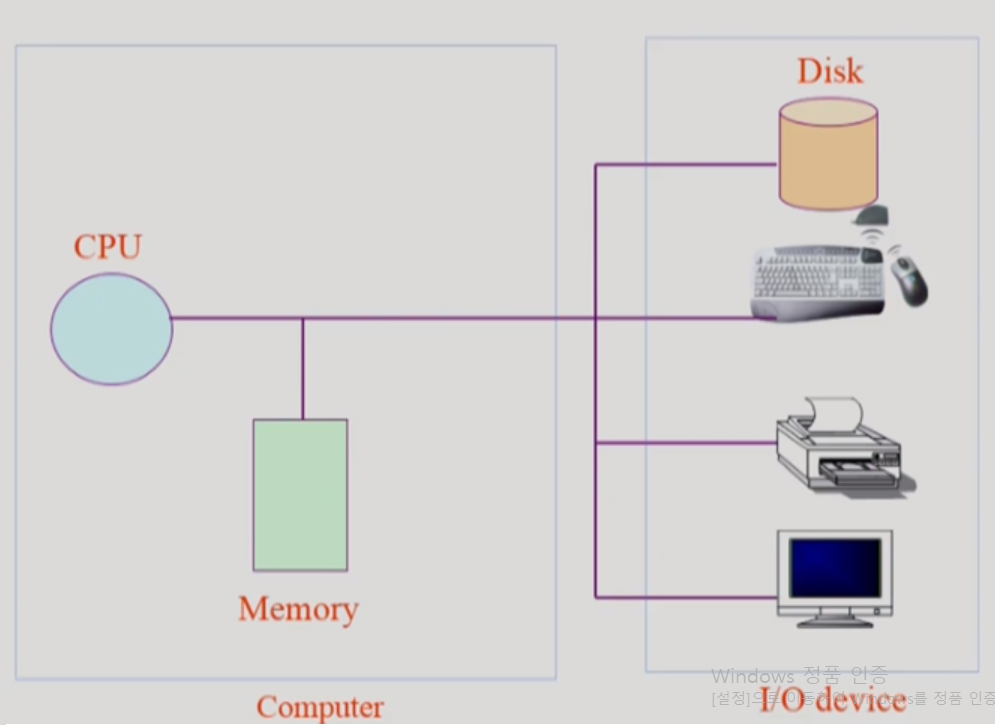
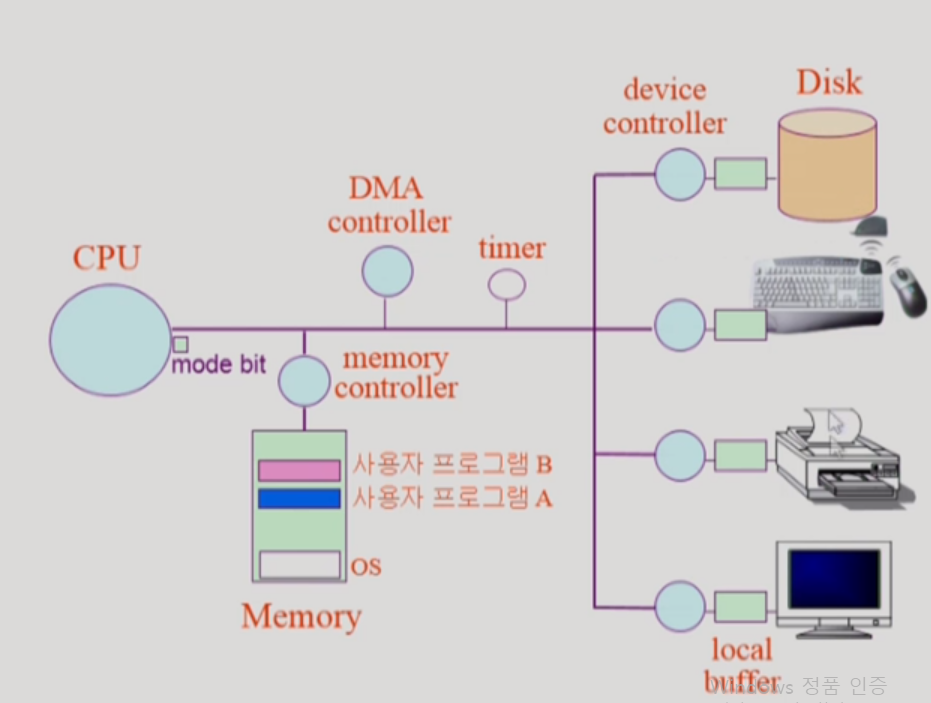
add post

Changed region(s): [[0.0311, 0.0597, 0.9968, 1.0], [0.2492, 0.9559, 0.4049, 1.0], [0.9968, 0.9559, 1.0, 0.9858]]

diff --git a/_posts/os/18-10-31-os-2.md b/_posts/os/18-10-31-os-2.md
@@ -28,3 +28,186 @@ comments: true
 <figcaption>컴퓨터 시스템 구조</figcaption>
 </figure>
 </center>
+
+i/o 장치는 각각 디바이스를 전담하는 디바이스 컨트롤러가 붙어있음
+i/o 장치를 통제하는것은 디바이스 컨트롤러가 함
+작은 cpu 역활
+i/o 컨트롤러도 메모리 같은 공간이 필요함 로컬 버퍼라고 부름
+cpu는 memory에서 인터렉터가 걸린 인스트럭션을 가져다가 처리해주는 역할만 함
+interrupt line 은 
+
+cpu와 i/o 장치는 서로 처리속도에서 엄청난 차이가 남
+
+cpu에는 cpu보다 더 빠른register가 있음
+cpu에는 mode bit이 있음
+운영체제 프로그램인지 사용자 프로그램인지 구분해줌
+
+interrupt line이란 것이 cpu에 있는대 cpu는 항상 메모리에 있는 인스트럭션만 실행함
+메모리에 있는 인스트럭션을 순차적으로 실행
+키보드 입력이라던지 뭐가 끝낫다던지 하는것은 interrupt line을 통해 알게함
+프로그램이 실행되다가 scnaf를 통해 입력을 받을수도 잇고 파일을 읽어와야 하는 상황이 올수도 잇음
+프로그램을 작성할 때에 메모리만 가지고 작성하는것이 아니라 디스크 에 읽기 쓰고 하는 경우가 있음
+
+cpu는 io 디바이스에 직접 접근 못함 메모리에 있는 인스트럭션만 접글할 수 있음
+i/o 디바이스에서 정보가 필요하면 디바이스 컨트롤러에게 일을 시킴
+디스크는 일을 하면서 버퍼에 저장시켜놈
+이때 cpu는 놀지않고 메모리에 있는 다음 인스트럭션을 실행시킴 
+cpu는 빠른 일군이라 계속 일만함 계속 넘어가면서 
+아주 짧은 시간 간격으로 인트럭션을 처리하기 떄문에 
+매우 빠르게 일을 처리해 주기 때문에 실시간으로 처리되는거처럼 보임
+cpu에게 무한 루프를 도는 프로그램을 도는 프로그램을 주게되면 안되서
+타이머라는 하드웨어를 두고있음.
+타이머는 특정 프로그램이 cpu를 독점하는 것을 막기위해 잇음
+처음에는 운영체제가 cpu를 가지고 있다가 사용자 프로그램이 실행되면 타이머에 값을 세팅 한후 cpu를 넘겨줌
+프로그램은 cpu를 계속 쓸수잇는게 아니라 수십ms시간 정도에 시간을 주면서 cpu를 넘겨줌 
+그러다가 세팅된 시간이 되면 타이머가 cpu에게 인터럽트를 검 세팅해논 시간이 끝낫다고
+cpu는 인스트럭션을 실행하고 끝나고나면 인터럽트 라인을 체크함 없으면 다음 인스트럭션 실행하고
+인터럽트 라인이 있으면 하던일을 먼추고 cpu제어권이 프로그램으로 부터 os에게 cpu제어권이 자동으로 넘어감
+운영체제가 프로그램으로 cpu를 자유롭게 줄순 잇지만 뻇지는 못함
+cpu를 줫기떄문에..
+운영체제가 아무리 똑똑해도 뺏을 방법이 없어 
+그래서 timer를 둬서 타이머 인터럽트를 줘서 사용자 프로그램으로 부터 cpu를 뻇어옴
+운영체제가 cpu를 얻게되면 타이머를 다시 세팅하고 다음 프로그램에게 cpu를 넘겨줌
+이걸 반복을 함 
+n개의 프로그램이 있다면 다 반복하고 처음으로 돌아오고 이런식으로 처리함
+사용자 프로그램은 본인이 직접 io를 접근할수 없음 이건 os를 통해서만 처리해야함 
+프로그램이 io를 접근해야한다면 스스로 운영체제에게 cpu를 넘겨주면 운영체제가 해당하는 작업을
+io 컨트롤러에게 시킴
+그리고 오래걸리니깐 요청한 프로그램한테 넘기는게 아니라 다음 프로그램에게 넘김
+그럼 요청한 프로그램은 io 컨트롤러가 요청한 작업이 끝나서 cpu에 인터럽트를 걸어두면 그때 io 처리된 것과 함께 처리가 다됫으니 요청한 프로그램에게 cpu가 넘어감  
+
+## Mode bit
+- 사용자 프록그램의 잘못된 수행으로 다른 프로그램 및 운영체제에 피해가 가지 않도록 하기 위한 보호 장치 필요
+- **Mode bit**을 통해 하드웨어적으로 두 가지 모드의 **operation** 지원
+- 1 사용자모드: 사용자 프로그램 수행
+    - i/o 제어 불가능
+    - 한정된 인스트럭션만 실행 가능함
+- 0 모니터 모드*: OS 코드 수행
+    - 모든 명령을 수행 가능
+    - 보안을 해칠 수 있는 중요한 명령어는 모니터 모드에서만 수행 가능한 '**특권명령**'으로 규정
+    - Interrupt나 Exception 발생시 하드웨어가 mode bit을 0으로 바꿈
+    - 사용자 프로그램에게 CPU를 넘기기 전에 mode bit을 1로 셋팅
+
+***모니터모드(= 커널 모드, 시스템 모드)**
+<center>
+<figure>
+<img src="/assets/post-img/os/modebit.png" alt="views">
+<figcaption></figcaption>
+</figure>
+</center>
+
+## Timer
+- 타이머
+    - 정해진 시간이 흐른 뒤 운영체제에게 제어권이 넘어가도록 인터럽트를 발생시킴
+    - 타이머는 매 클럭 틱 때마다 1씩 감소
+    - 타이머 값이 0이 되면 타이머 인터럽트 발생
+    - CPU를 특정 프로그램이 독점하는 것으로부터 보호
+- 타이머는 time sharing을 구현하기 위해 널리 이용됨
+- 타이머는 현재 시간을 계산하기 위해서도 사용
+
+## Device Controller
+- I/O device controller
+    - 해당 I/O 장치유형을 관리하는 일종의 작은 CPU
+    - 제어 정보를 위해  control register, status register를 가짐
+    - local buffer를 가짐(일종의 dataregister)
+    - I/O는 실제로 device와 local buffer 사이에서 일어남
+        - local buffer에 데이터를 넣고 device conroller에게 처리하라고 시킴
+    - Device controller는 I/O가 끝났을 경우 interrupt로 CPU에 그 사실을 알림
+
+**device driver(장치구동기)**
+
+: OS 코드 중 각 장치별 처리루틴 -> **software**
+
+**device controller(장치제어기)**
+
+: 각 장치를 통제하는 일종의 작은 CPU -> **hardware**
+
+디바이스를 접근하기 위한 디바이스 드라이버
+
+이렇게 하나씩 인터럽트를 걸려다 보니깐 cpu가 인터럽트를 너무 많이 당함
+그래서 DMA(Direct Memory Access)를 사용함
+DMA컨트롤러를 두개되면 메로리를 직접 접근 가능함
+둘이서 특정  메모리 영역을 접근하게되면 메모리 컨트롤러는 그런걸 중재하는 역활을 함
+DMA는 왜달앗냐면 I/O장치가 너무 자주 인터럽트를 걸어 방해가 많이됌 그걸 막기 위해
+DMA는 중간 중간 I/O장치의 요청이 CPU의 인터럽트를 거는게 아니라 DMA가 I/O가 처리한 내용을 메모리에 직접 처리를 하고 CPU에 인터럽트를 걸어서 한번에 처리될수 있게 해줌
+
+cpu의 숙명은 본인이 이번에 실행해야될 인스트럭션 주소를 프로그램 카운터라는 레지스터가 가지고잇음
+매번 그 인스트럭션만 실행하는게 cpu의 운명이야! 
+인스트럭션 중에서 io장치를 접근해야 하는 상황이 오면 디바이스 드라이버를 통해서 명령을 하게됌
+디스크에서 실제로 헤드를 움직여서 하는건 아님
+디스크 컨트롤러가 하는거임
+cpu는 메모리의 지시를 받아서 하는거고
+디스크는 디스크 안의 펌웨어가 디바이스 컨트롤러 를 제어하는 언어는 따로잇음
+cpu는 직접 뭔가 할수가 없고 메뉴얼 대로 일을 함
+메뉴얼엔 메모리 몇번지에 일을 해야되는지 적혀있음 얘는 그냥 일하는거임
+일하고나면 다음 메뉴얼에 다음페이지에 있는 인스트럭션을 실행함 반복하는거임 병신이네 ㅋ
+이친구의 통제를 운영체제가 함 
+하다가프로그램에게 넘겨주고 받아오고 그럼 
+
+## 입출력(I/O)의 수행
+- 모든 입출력 명령은 특권 명령
+- 사용자 프로그램은 어떻게 I/O를 하는가?
+    - 시스템 콜(system call)
+        - 사용자 프로그램은 운영체제에게 I/O 요청
+    - trap을 사용하여 인터럽트 벡터의 특정 위치로 이동
+    - 제어권이 인터럽트 벡터가 가리키는 입터럽트 서비스 루틴으로 이동
+    - 올바른 I/O요청인지 확인후 I/O수행
+    - I/O완료 시 제어권을 시스템콜 다음 명령으로 옮김
+
+운영체제에게 시스템 함수를 수행하도록 요청하는것은 시스템 콜이라 부름
+프로그램을 실행하다 보면 함수를 실행하는 부분이 있음 
+처음에 프로그램이 cpu에서 메인함수를 실행할떄는 메인 함수에 해당하는 인스트럭션을 실행할거임
+다른 함수를 호출하면 점프를 할거임
+if문에 만족 안하거나 그러면 메모리 위치를 점프 하게됌
+반복문이라면 내려가다 올라가고 하는 방식으로 실행이됌
+프로그램이 실행되다가 io요청을 하기 위해서 운영체제의 함수를 운영하는게 시스템콜이라고 설명을 했는데
+그냥 메모리 주소를 바꿔서 되는게 아님
+어떤식으로 운영체제 함수를 호출 하냐면
+아까 디바이스 컨트로러들이 cpu에게 인터럽트를 걸수  잇다고 햇는대 그런식으로 호출을함
+내가 내 프로그램을 호출하다가 io를 해야된다면 직접 주소 점프를 못함
+나는 사용자 프로그램임 모드빗이 1로되잇음
+io를 하기위해서는 운영체제로 해당하는 걸로 넘어가야됌
+프로그램이 직접 인터럽트 라인을 실행하는 인터럽트를 실행함
+인스트럭션 하나가 실행되고 나면 인터럽트 들어온게 잇는지 체크함
+타이머가나 io가 인터럽트를 거는게 아니고 프로그램이 인터럽트를 요청하기 위해서 직접 걸수잇음
+cpu는 다음인스트럭션을 실행하는게 아니고 인터럽트가 들어왓기 떄문에 모드빗이 0으로 바뀌고 cpu제어권이 os로 넘어감
+디스크로 뭘 읽어오기 위해서 요청을 햇다면 os가 디스크 컨트롤러에게 뭘 가져오라고 요청을함
+인터럽트는 하드웨어일꾼들이 정보 교신을 하기위해서 걸어줄수도 잇고 사요자 프로그램이 돌아가다가
+내가 처리 못하고 운영체제에게 요청해야되는 상황에서도 인터럽트 라인을 세팅해서 os에게 cpu가 넘어갈수 있음
+후자를 소프트웨어 인터럽트 라고 부름 다른말로 trap이라고 부름
+소프트웨어적으로 인터럽트를 거는거임.
+일반적으로는 io나 타이머가 거는 인터럽트를 뜻함
+넓은 의미는 둘다 포함함
+
+os는 항상 올바른 요청인지 그 파일에 대한 접근권한이 잇는건지 올바른 요청인 경우에 요청을 부탁함
+그러면 io 컨트롤러는 일을함 그러면 cpu는 다른거한테 넘어가고
+끝나면 하드웨어 인터럽트가 걸림
+그래서 io를 하기 위해서 인터럽트가 두가지가 걸림
+처음에는 프로그램이 io를하기위해 os에 시스템 콜을함 그럼 os가 device에게 시킴
+시킨일이 끝나면 io 컨트롤러가 cpu에게 하드웨어 인터럽트를 검 
+
+## 인터럽트(Interrupt)
+- 인터럽트
+    - 인터럽트 당한 시점의 레지스터와 program counter를 save한 후 CPU의 제어를 인터럽트 처리 루틴에 넘긴다
+    - Interrupt(넓은 의미)
+        - Interrupt(하드웨어 인터럽트): 하드웨어가 발생시킨 인터럽트
+        - Trap(소프트웨어 인터럽트)
+            - Exception: 프로그램이 오류를 범한 경우
+            - System call: 프로그램이 커널 함수를 호출하는 경우
+    - 인터럽트 관련 용어
+        - 인터럽트 벡터
+            - 해당 인터럽트의 처리 루틴 주소를 가지고 있음
+            - 인터럽트 처리 루틴(=Interrupt Service Routine, 인터럽트 핸들러)
+                - 해당 인터럽트를 처리하는 커널 함수
+
+**현대의 운영체제는 인터럽트에 의해 구동됨**
+
+## 시스템콜(System Call)
+- 시스템 콜
+    - 사용자 프로그램이 운영체제의 서비스를 받기 위해 커널 함수를 호출하는 것
+
+각각의 인터럽트마다 운영체제가 무슨일을 해야하는지 운영체제 코드에 정의가 되어잇음
+각 인터럽트가 처리해야되는 코드를 인터럽트 처리루틴이라고함
+그 표시를 인터럽트 벡터라는 곳에 표시를 해둠
+어떤 인터럽트를 처리해야되는지 주소를 적어둠
+
